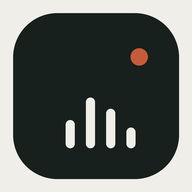
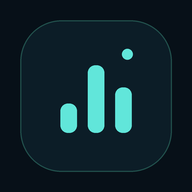
更新学习桌面图标、独立安装入口及安全的内容更新缓存

diff --git a/assets/mobile/install.js b/assets/mobile/install.js
@@ -1,0 +1,22 @@
+(function(){
+'use strict';
+var script=document.currentScript,app=script.getAttribute('data-app')||'hub',sw=script.getAttribute('data-sw');
+var home='/learning-hub/',guide=home+'install/',promptEvent=null,previousFocus=null;
+var host=document.createElement('div');host.id='learning-mobile-tools';document.body.appendChild(host);
+var shadow=host.attachShadow?host.attachShadow({mode:'open'}):host;
+shadow.innerHTML='<style>:host{font:15px/1.65 "PingFang SC","Microsoft YaHei",sans-serif;color:#e8f7fa}*{box-sizing:border-box}button,a{font:inherit}button{cursor:pointer}button:focus-visible,a:focus-visible{outline:3px solid #61e6da;outline-offset:3px}.launcher{position:fixed;right:12px;bottom:calc(82px + env(safe-area-inset-bottom,0px));z-index:5000;min-height:44px;padding:0 14px;border:1px solid #35727b;border-radius:12px;color:#bde9ee;background:#112630;box-shadow:0 4px 15px #0003}.backdrop{position:fixed;inset:0;z-index:10000;background:#000a;display:flex;align-items:center;justify-content:center;padding:18px}.backdrop[hidden]{display:none}.panel{position:relative;background:#101f29;border:1px solid #335560;border-radius:22px;width:100%;max-width:420px;max-height:90vh;overflow:auto;padding:24px;color:#e8f7fa}h2{font-size:24px;margin:0 30px 14px 0}p{font-size:15px;line-height:1.8;color:#b6cdd3;margin:12px 0}.close{position:absolute;right:15px;top:15px;width:36px;height:36px;border:1px solid #335560;border-radius:50%;background:none;color:inherit;font-size:24px}.action{display:block;min-height:48px;width:100%;padding:10px 14px;margin-top:10px;border:1px solid #335560;border-radius:12px;text-align:center;text-decoration:none;background:#182e39;color:#e8f7fa;font-weight:650}.primary{background:#61e6da;color:#071018;border-color:#61e6da}.status{font-size:13px;min-height:22px;color:#91d9ce}.muted{font-size:13px;color:#93aeb8}</style>'+
+'<button class="launcher" type="button">桌面图标</button><div class="backdrop" hidden><section class="panel" role="dialog" aria-modal="true" aria-labelledby="mobile-title"><button class="close" type="button" aria-label="关闭">×</button><h2 id="mobile-title">桌面图标与更新</h2><p class="instructions"></p><button class="action primary install" type="button">添加此应用到桌面</button><button class="action refresh" type="button">检查更新并重新打开</button><a class="action" href="'+guide+'">查看全部学习图标</a><p class="status" role="status" aria-live="polite"></p><p class="muted">这里只更新网页缓存，不清除收藏与学习记录。手机桌面图标由浏览器和系统管理。</p></section></div>';
+var overlay=shadow.querySelector('.backdrop'),close=shadow.querySelector('.close'),install=shadow.querySelector('.install'),status=shadow.querySelector('.status'),launcher=shadow.querySelector('.launcher');
+if(app==='hub'){launcher.hidden=true;launcher.style.display='none'}
+function standalone(){return (window.matchMedia&&matchMedia('(display-mode: standalone)').matches)||navigator.standalone===true}
+function instructions(){var isIOS=/iPad|iPhone|iPod/.test(navigator.userAgent)||(navigator.platform==='MacIntel'&&navigator.maxTouchPoints>1);return isIOS?'在 Safari 中点击“分享”，选择“添加到主屏幕”。每个学习应用需要分别添加。':'请在 Chrome 或手机系统浏览器中打开。点击右上角菜单，选择“安装应用”“添加到主屏幕”或“添加到桌面”（名称因浏览器而异）。'}
+function open(){previousFocus=document.activeElement;shadow.querySelector('.instructions').textContent=standalone()?'当前已从桌面图标打开，可检查内容更新；要添加其他图标，请打开下方“查看全部学习图标”。':instructions();install.textContent=standalone()?'查看其他桌面图标':'添加此应用到桌面';overlay.hidden=false;close.focus()}
+function hide(){overlay.hidden=true;if(previousFocus&&previousFocus.focus)previousFocus.focus()}
+launcher.addEventListener('click',open);document.querySelectorAll('[data-mobile-open]').forEach(function(el){el.addEventListener('click',open)});close.addEventListener('click',hide);overlay.addEventListener('click',function(e){if(e.target===overlay)hide()});
+shadow.addEventListener('keydown',function(e){if(e.key==='Escape'){hide();return}if(e.key==='Tab'&&!overlay.hidden){var items=Array.prototype.slice.call(shadow.querySelector('.panel').querySelectorAll('button,a[href]')).filter(function(el){return !el.disabled});var first=items[0],last=items[items.length-1];if(e.shiftKey&&shadow.activeElement===first){last.focus();e.preventDefault()}else if(!e.shiftKey&&shadow.activeElement===last){first.focus();e.preventDefault()}}});
+window.addEventListener('beforeinstallprompt',function(e){e.preventDefault();promptEvent=e});
+install.addEventListener('click',function(){if(standalone()){location.href=guide;return}if(promptEvent){var p=promptEvent;promptEvent=null;p.prompt();p.userChoice.then(function(result){status.textContent=result.outcome==='accepted'?'已发送安装请求，请查看系统提示。':'已取消，可稍后从浏览器菜单添加。'})}else{status.textContent=instructions()}});
+shadow.querySelector('.refresh').addEventListener('click',function(){var button=this;button.disabled=true;status.textContent='正在联网检查…';var regs=('serviceWorker'in navigator)?navigator.serviceWorker.getRegistrations().then(function(list){return Promise.all(list.filter(function(r){return location.href.indexOf(r.scope)===0}).map(function(r){return r.update().catch(function(){})}))}):Promise.resolve();regs.then(function(){return fetch(location.pathname+'?desktop-update='+Date.now(),{cache:'no-store',credentials:'same-origin'})}).then(function(r){if(!r.ok)throw Error('http');var u=new URL(location.href);u.searchParams.delete('desktop');u.searchParams.set('updated',Date.now());location.replace(u.href)}).catch(function(){status.textContent='更新检查失败，请联网后重试；未清除任何学习记录。';button.disabled=false})});
+if('serviceWorker'in navigator&&sw&&/^https?:$/.test(location.protocol)){navigator.serviceWorker.register(sw,{updateViaCache:'none'}).then(function(r){r.update().catch(function(){})}).catch(function(){})}
+if(new URL(location.href).searchParams.get('desktop')==='1')open();
+})();

diff --git a/install/index.html b/install/index.html
@@ -1,0 +1,3 @@
+<!doctype html><html lang="zh-CN"><head><meta charset="utf-8"><meta name="viewport" content="width=device-width,initial-scale=1,viewport-fit=cover"><meta name="theme-color" content="#071018"><title>添加学习图标到手机桌面</title><style>
+:root{color-scheme:dark;font-family:"PingFang SC","Microsoft YaHei",sans-serif;background:#071018;color:#ecf7f9}*{box-sizing:border-box}body{margin:0}main{max-width:900px;margin:auto;padding:calc(24px + env(safe-area-inset-top)) 20px calc(36px + env(safe-area-inset-bottom))}a{color:inherit;text-decoration:none}a:focus-visible{outline:3px solid #61e6da;outline-offset:4px}.back{display:inline-flex;min-height:44px;align-items:center;color:#88b7c1;font-size:15px}h1{font-size:clamp(29px,5vw,42px);margin:16px 0 10px;letter-spacing:-.04em}p{font-size:16px;line-height:1.85;color:#adcad2}h2{font-size:21px;margin:0 0 12px}ol{padding-left:23px;margin:0}li{margin:9px 0;line-height:1.9;color:#c4dbe1}.guide{padding:22px;background:#10232d;border:1px solid #294650;border-radius:20px;margin:24px 0}.apps{display:grid;grid-template-columns:repeat(3,1fr);gap:14px}.app{display:flex;flex-direction:column;align-items:flex-start;padding:20px;border:1px solid #25424d;border-radius:20px;background:#0d1d26}.app:hover{border-color:#61e6da}.app img{border-radius:20px;width:82px;height:82px}.app strong{font-size:23px;margin-top:16px}.app span{font-size:14px;color:#8eb0bb;margin-top:5px}.app b{font-size:14px;margin-top:22px;color:#61e6da}.app i{font-style:normal}.note{border-top:1px solid #25424d;margin-top:26px;padding-top:20px}.version{font-size:13px;color:#7d9aa5}@media(max-width:650px){.apps{grid-template-columns:1fr 1fr;gap:10px}.app{padding:15px}.app strong{font-size:20px}.app img{width:68px;height:68px}.app span{font-size:12px}.guide{padding:18px}main{padding-left:16px;padding-right:16px}}
+</style></head><body><main><a class="back" href="../">← 返回学习空间</a><h1>把学习图标放到桌面</h1><p>每个入口都能单独打开。请逐个添加，不是一次自动安装全部图标。</p><section class="guide"><h2>安卓手机</h2><ol><li>在 <b>Chrome 或手机系统浏览器</b>打开本页，不要停留在微信内置浏览器。</li><li>选择下面一个学习应用，进入后点“添加此应用到桌面”。</li><li>如果未出现系统安装提示，点浏览器菜单 <b>⋮ → 安装应用 / 添加到主屏幕 / 添加到桌面</b>。</li><li>返回本页，重复添加其他学习图标。</li></ol></section><div class="apps"><a class="app" href="https://ziyuan2046-cyber.github.io/learning-hub/?desktop=1"><img src="../assets/app-icons/v20261105/hub-192.png" width="82" height="82" alt="" loading="lazy"><strong>学习空间</strong><span>总入口</span><b>打开并添加 <i aria-hidden="true">↗</i></b></a><a class="app" href="https://ziyuan2046-cyber.github.io/learning-hub/chinese/index.html?desktop=1"><img src="../assets/app-icons/v20261105/hanzi-192.png" width="82" height="82" alt="" loading="lazy"><strong>汉字笔顺</strong><span>识字与笔顺</span><b>打开并添加 <i aria-hidden="true">↗</i></b></a><a class="app" href="https://ziyuan2046-cyber.github.io/learning-hub/chinese/guoxue/index.html?desktop=1"><img src="../assets/app-icons/v20261105/guoxue-192.png" width="82" height="82" alt="" loading="lazy"><strong>课本国学</strong><span>古诗文与经典</span><b>打开并添加 <i aria-hidden="true">↗</i></b></a><a class="app" href="https://ziyuan2046-cyber.github.io/learning-hub/math/index.html?desktop=1"><img src="../assets/app-icons/v20261105/math-192.png" width="82" height="82" alt="" loading="lazy"><strong>小学数学</strong><span>数学学习</span><b>打开并添加 <i aria-hidden="true">↗</i></b></a><a class="app" href="https://ziyuan2046-cyber.github.io/learning-hub/xiaoyuan/?desktop=1"><img src="../assets/app-icons/v20261105/forest-192.png" width="82" height="82" alt="" loading="lazy"><strong>森林英语</strong><span>字母与故事</span><b>打开并添加 <i aria-hidden="true">↗</i></b></a><a class="app" href="https://ziyuan2046-cyber.github.io/english-grade1/index.html?desktop=1"><img src="../assets/app-icons/v20261105/english-192.png" width="82" height="82" alt="" loading="lazy"><strong>课本英语</strong><span>一年级上册</span><b>打开并添加 <i aria-hidden="true">↗</i></b></a></div><section class="guide"><h2>已有的旧图标怎么更新？</h2><p>先打开原来的学习图标，点“桌面图标”→“检查更新并重新打开”，联网加载最新内容。收藏与学习记录会保留。</p><p>如果桌面仍显示旧图案，系统可能没有更新快捷方式图标。可先从浏览器添加新图标，确认能用后再移除旧的快捷方式。<b>不要清除浏览器数据、网站存储或学习记录。</b>如果系统“卸载”界面提示同时删除数据，请取消。</p></section><section class="note"><h2>iPhone / iPad</h2><p>在 Safari 中分别打开每个学习应用，点“分享”→“添加到主屏幕”。</p><p>浏览器菜单与系统安装能力因手机而异。网页不能替你直接操作手机桌面，也不能批量静默安装。相同手机最好始终使用同一个浏览器，学习记录通常保存在该浏览器中。</p><p class="version">图标版本：2026-11-05 · 学习内容使用各应用当前线上版本</p></section></main></body></html>

diff --git a/index.html b/index.html
@@ -7,7 +7,7 @@
 <meta name="color-scheme" content="dark">
 <meta name="description" content="学习空间：汉字、国学、英语与数学学习入口。">
 <title>学习空间</title>
-<link rel="manifest" href="./manifest.webmanifest">
+
 <style>
 :root{
   --bg:#071018;--panel:#0d1b24;--panel-2:#10242d;--line:rgba(121,208,222,.16);--line-strong:rgba(121,226,237,.34);
@@ -156,7 +156,13 @@ a:focus-visible,button:focus-visible{outline:2px solid var(--cyan);outline-offse
 }
 
 @media(min-width:621px) and (orientation:portrait){.layout{grid-template-columns:1fr;gap:24px}.heading h1{font-size:clamp(46px,7vw,62px);white-space:nowrap}}
+.top{gap:8px}.brand{margin-right:auto}.qr-trigger{white-space:nowrap} @media(max-width:420px){.qr-trigger{font-size:12px;padding:0 9px}.brand-name{font-size:15px}.top{gap:6px}}
 </style>
+
+<link rel="manifest" href="./manifest.webmanifest">
+<link rel="icon" type="image/png" href="/learning-hub/assets/app-icons/v20261105/hub-192.png">
+<link rel="apple-touch-icon" href="/learning-hub/assets/app-icons/v20261105/hub-180.png">
+<meta name="apple-mobile-web-app-title" content="学习空间">
 </head>
 <body>
 <a class="skip" href="#main">跳到主要内容</a>
@@ -166,6 +172,7 @@ a:focus-visible,button:focus-visible{outline:2px solid var(--cyan);outline-offse
       <span class="logo" aria-hidden="true"><i></i><i></i><i></i></span>
       <span class="brand-name">学习空间</span>
     </a>
+    <button class="qr-trigger" type="button" data-mobile-open>桌面图标</button>
     <button class="qr-trigger" id="qrButton" type="button" aria-haspopup="dialog" aria-controls="qrDialog">
       <svg viewBox="0 0 24 24" aria-hidden="true"><rect x="3.5" y="3.5" width="6" height="6" rx="1"/><rect x="14.5" y="3.5" width="6" height="6" rx="1"/><rect x="3.5" y="14.5" width="6" height="6" rx="1"/><path d="M14.5 14.5h2.5v2.5h-2.5zM19 14.5h1.5M14.5 20h1.5M19 19h1.5v1.5"/></svg>
       <span>二维码</span>
@@ -229,7 +236,7 @@ a:focus-visible,button:focus-visible{outline:2px solid var(--cyan);outline-offse
   var img=document.getElementById('qrImage'),loading=document.getElementById('qrLoading'),copy=document.getElementById('copyButton'),toast=document.getElementById('toast');
   var address='https://ziyuan2046-cyber.github.io/learning-hub/';
   if(/github\.io$/.test(location.hostname)){address=location.origin+'/learning-hub/';document.getElementById('qrAddress').textContent=address}
-  function openDialog(){if(!dialog)return;img.hidden=true;loading.style.display='block';if(!img.src&&img.dataset.src){img.src=img.dataset.src}if(typeof dialog.showModal==='function'){dialog.showModal()}else{dialog.setAttribute('open','')}closeBtn.focus()}
+  function openDialog(){if(!dialog)return;img.hidden=!(img.complete&&img.naturalWidth);loading.style.display=img.hidden?'block':'none';if(!img.getAttribute('src')&&img.dataset.src){img.src=img.dataset.src}if(typeof dialog.showModal==='function'){dialog.showModal()}else{dialog.setAttribute('open','')}closeBtn.focus()}
   function closeDialog(){if(!dialog)return;if(typeof dialog.close==='function'){dialog.close()}else{dialog.removeAttribute('open')}openBtn.focus()}
   img.addEventListener('load',function(){loading.style.display='none';img.hidden=false});
   img.addEventListener('error',function(){loading.textContent='二维码加载失败，请复制地址访问'});
@@ -245,5 +252,6 @@ a:focus-visible,button:focus-visible{outline:2px solid var(--cyan);outline-offse
   if('serviceWorker' in navigator&&/^https?:$/.test(location.protocol)){addEventListener('load',function(){navigator.serviceWorker.register('./sw.js').catch(function(){})})}
 })();
 </script>
+<script defer src="/learning-hub/assets/mobile/install.js?v=20261105" data-app="hub" data-sw="/learning-hub/sw.js"></script>
 </body>
 </html>

diff --git a/xiaoyuan/sw.js b/xiaoyuan/sw.js
@@ -1,52 +1,17 @@
-const CACHE_NAME = 'xiaoyuan-course-hub-v13';
-const CORE_ASSETS = [
-  "./",
-  "./index.html",
-  "./courses.js",
-  "./styles.css",
-  "./app.js",
-  "./manifest.webmanifest",
-  "./assets/img/icon-192.png",
-  "./assets/img/icon-512.png",
-  "./assets/img/apple-touch-icon.png",
-];
-
-self.addEventListener('install', (event) => {
-  event.waitUntil(caches.open(CACHE_NAME).then((cache) => cache.addAll(CORE_ASSETS)).then(() => self.skipWaiting()));
-});
-
-self.addEventListener('activate', (event) => {
-  event.waitUntil(caches.keys().then((keys) => Promise.all(keys.filter((key) => key !== CACHE_NAME).map((key) => caches.delete(key)))).then(() => self.clients.claim()));
-});
-
-self.addEventListener('fetch', (event) => {
-  if (event.request.method !== 'GET') { return; }
-
-  const requestUrl = new URL(event.request.url);
-  if (requestUrl.origin !== self.location.origin) { return; }
-
-  // Keep audio outside the service worker so the browser can issue its own
-  // Range request immediately instead of competing with precache downloads.
-  if (event.request.destination === 'audio' || /\.(?:mp3|m4a|aac|ogg|wav)$/i.test(requestUrl.pathname)) {
-    return;
-  }
-
-  if (event.request.mode === 'navigate') {
-    event.respondWith(fetch(event.request).then((response) => {
-      if (response.ok) { caches.open(CACHE_NAME).then((cache) => cache.put('./index.html', response.clone())); }
-      return response;
-    }).catch(() => caches.match('./index.html')));
-    return;
-  }
-
-  event.respondWith(caches.match(event.request).then((cached) => {
-    if (cached) { return cached; }
-    return fetch(event.request).then((response) => {
-      if (response.status === 200) {
-        const copy = response.clone();
-        caches.open(CACHE_NAME).then((cache) => cache.put(event.request, copy));
-      }
-      return response;
-    }).catch(() => Response.error());
-  }));
+'use strict';
+const CACHE="forest-mobile-20261105", OWN=["xiaoyuan-"], SHELL=["./", "./index.html", "./manifest.webmanifest", "./courses.js?v=13", "./styles.css?v=13", "./app.js?v=13"];
+self.addEventListener('install',event=>event.waitUntil(caches.open(CACHE).then(cache=>cache.addAll(SHELL)).then(()=>self.skipWaiting())));
+self.addEventListener('activate',event=>event.waitUntil(caches.keys().then(keys=>Promise.all(keys.filter(k=>k!==CACHE&&OWN.some(prefix=>k.startsWith(prefix))).map(k=>caches.delete(k)))).then(()=>self.clients.claim())));
+self.addEventListener('fetch',event=>{
+ const req=event.request,u=new URL(req.url);
+ if(req.method!=='GET'||u.origin!==self.location.origin||req.headers.has('range')||/\.(?:mp3|mp4|m4a|ogg|wav|aac)$/i.test(u.pathname))return;
+ const base=new URL(self.registration.scope),key=req.mode==='navigate'?u.origin+u.pathname:req;
+ // Child applications keep their own caches; do not intercept another app's scope.
+ 
+ event.respondWith(fetch(req,{cache:'no-cache'}).then(res=>{
+   if(res.ok&&res.type!=='opaque'){
+     const copy=res.clone();event.waitUntil(caches.open(CACHE).then(cache=>cache.put(key,copy)));
+   }
+   return res;
+ }).catch(()=>caches.open(CACHE).then(cache=>cache.match(key).then(hit=>hit||(req.mode==='navigate'?cache.match(new URL('./index.html',base).href):null))).then(hit=>hit||new Response('当前离线，首次访问此内容需联网。',{status:503,headers:{'Content-Type':'text/plain; charset=utf-8'}}))));
 });

diff --git a/chinese/guoxue/sw.js b/chinese/guoxue/sw.js
@@ -1,32 +1,17 @@
-const CACHE = 'guoxue-20261027-v18-learning-focus';
-const ASSETS = [
-  './', './index.html', './manifest.webmanifest',
-  './assets/icon-192.png', './assets/icon-512.png'
-];
-self.addEventListener('install', (e) => {
-  e.waitUntil(caches.open(CACHE).then((c) => c.addAll(ASSETS)).then(() => self.skipWaiting()));
-});
-self.addEventListener('activate', (e) => {
-  e.waitUntil(caches.keys().then((keys) => Promise.all(keys.filter((k) => k !== CACHE).map((k) => caches.delete(k)))).then(() => self.clients.claim()));
-});
-self.addEventListener('fetch', (e) => {
-  if (e.request.method !== 'GET') return;
-  const isAudio = new URL(e.request.url).pathname.endsWith('.mp3');
-  if (isAudio) {
-    e.respondWith(caches.match(e.request).then((hit) => hit || fetch(e.request).then((res) => {
-      if (res.ok) {
-        const copy = res.clone();
-        caches.open(CACHE).then((c) => c.put(e.request, copy));
-      }
-      return res;
-    }).catch(() => new Response('', { status: 404, headers: { 'Content-Type': 'audio/mpeg' } }))));
-    return;
-  }
-  e.respondWith(caches.match(e.request).then((hit) => hit || fetch(e.request).then((res) => {
-    if (res.ok && new URL(e.request.url).origin === location.origin) {
-      const copy = res.clone();
-      caches.open(CACHE).then((c) => c.put(e.request, copy));
-    }
-    return res;
-  }).catch(() => caches.match('./index.html'))));
+'use strict';
+const CACHE="guoxue-mobile-20261105", OWN=["guoxue-"], SHELL=["./", "./index.html", "./manifest.webmanifest"];
+self.addEventListener('install',event=>event.waitUntil(caches.open(CACHE).then(cache=>cache.addAll(SHELL)).then(()=>self.skipWaiting())));
+self.addEventListener('activate',event=>event.waitUntil(caches.keys().then(keys=>Promise.all(keys.filter(k=>k!==CACHE&&OWN.some(prefix=>k.startsWith(prefix))).map(k=>caches.delete(k)))).then(()=>self.clients.claim())));
+self.addEventListener('fetch',event=>{
+ const req=event.request,u=new URL(req.url);
+ if(req.method!=='GET'||u.origin!==self.location.origin||req.headers.has('range')||/\.(?:mp3|mp4|m4a|ogg|wav|aac)$/i.test(u.pathname))return;
+ const base=new URL(self.registration.scope),key=req.mode==='navigate'?u.origin+u.pathname:req;
+ // Child applications keep their own caches; do not intercept another app's scope.
+ 
+ event.respondWith(fetch(req,{cache:'no-cache'}).then(res=>{
+   if(res.ok&&res.type!=='opaque'){
+     const copy=res.clone();event.waitUntil(caches.open(CACHE).then(cache=>cache.put(key,copy)));
+   }
+   return res;
+ }).catch(()=>caches.open(CACHE).then(cache=>cache.match(key).then(hit=>hit||(req.mode==='navigate'?cache.match(new URL('./index.html',base).href):null))).then(hit=>hit||new Response('当前离线，首次访问此内容需联网。',{status:503,headers:{'Content-Type':'text/plain; charset=utf-8'}}))));
 });

diff --git a/sw.js b/sw.js
@@ -1,13 +1,17 @@
 'use strict';
-var CACHE='learning-hub-tech-v2';
-var SHELL=['./','./index.html','./manifest.webmanifest'];
-self.addEventListener('install',function(e){e.waitUntil(caches.open(CACHE).then(function(c){return c.addAll(SHELL)}).then(function(){return self.skipWaiting()}))});
-self.addEventListener('activate',function(e){e.waitUntil(caches.keys().then(function(keys){return Promise.all(keys.filter(function(k){return k!==CACHE}).map(function(k){return caches.delete(k)}))}).then(function(){return self.clients.claim()}))});
-self.addEventListener('fetch',function(e){
-  var req=e.request;if(req.method!=='GET'||new URL(req.url).origin!==location.origin)return;
-  var path=new URL(req.url).pathname;
-  if(path==='/'||path.endsWith('/index.html')||path.endsWith('/manifest.webmanifest')){
-    e.respondWith(fetch(req).then(function(r){if(r&&r.ok){var copy=r.clone();caches.open(CACHE).then(function(c){c.put(req,copy)})}return r}).catch(function(){return caches.match(req)}));return
-  }
-  e.respondWith(caches.match(req).then(function(hit){return hit||fetch(req)}));
+const CACHE="learning-hub-mobile-20261105", OWN=["learning-hub-shell-", "learning-hub-tech-", "learning-hub-mobile-"], SHELL=["./", "./index.html", "./manifest.webmanifest"];
+self.addEventListener('install',event=>event.waitUntil(caches.open(CACHE).then(cache=>cache.addAll(SHELL)).then(()=>self.skipWaiting())));
+self.addEventListener('activate',event=>event.waitUntil(caches.keys().then(keys=>Promise.all(keys.filter(k=>k!==CACHE&&OWN.some(prefix=>k.startsWith(prefix))).map(k=>caches.delete(k)))).then(()=>self.clients.claim())));
+self.addEventListener('fetch',event=>{
+ const req=event.request,u=new URL(req.url);
+ if(req.method!=='GET'||u.origin!==self.location.origin||req.headers.has('range')||/\.(?:mp3|mp4|m4a|ogg|wav|aac)$/i.test(u.pathname))return;
+ const base=new URL(self.registration.scope),key=req.mode==='navigate'?u.origin+u.pathname:req;
+ // Child applications keep their own caches; do not intercept another app's scope.
+ if(u.pathname.startsWith(base.pathname+'chinese/guoxue/')||u.pathname.startsWith(base.pathname+'xiaoyuan/'))return;
+ event.respondWith(fetch(req,{cache:'no-cache'}).then(res=>{
+   if(res.ok&&res.type!=='opaque'){
+     const copy=res.clone();event.waitUntil(caches.open(CACHE).then(cache=>cache.put(key,copy)));
+   }
+   return res;
+ }).catch(()=>caches.open(CACHE).then(cache=>cache.match(key).then(hit=>hit||(req.mode==='navigate'?cache.match(new URL('./index.html',base).href):null))).then(hit=>hit||new Response('当前离线，首次访问此内容需联网。',{status:503,headers:{'Content-Type':'text/plain; charset=utf-8'}}))));
 });

diff --git a/chinese/guoxue/index.html b/chinese/guoxue/index.html
@@ -8,9 +8,9 @@
   <title>小学语文国学 · 课本与拓展</title>
   <meta name="apple-mobile-web-app-capable" content="yes">
   <meta name="apple-mobile-web-app-status-bar-style" content="default">
-  <link rel="manifest" href="manifest.webmanifest">
-  <link rel="icon" type="image/png" sizes="192x192" href="assets/icon-192.png">
-  <link rel="apple-touch-icon" href="assets/icon-192.png">
+  
+  
+  
   <style>:root {
   --paper: #f3f0e8;
   --surface: #fffdf8;
@@ -284,6 +284,11 @@ h1, h2, h3 { font-family: var(--serif); font-weight: 700; }
   *, *::before, *::after { scroll-behavior: auto !important; animation-duration: .01ms !important; transition-duration: .01ms !important; }
 }
 </style>
+
+<link rel="manifest" href="./manifest.webmanifest">
+<link rel="icon" type="image/png" href="/learning-hub/assets/app-icons/v20261105/guoxue-192.png">
+<link rel="apple-touch-icon" href="/learning-hub/assets/app-icons/v20261105/guoxue-180.png">
+<meta name="apple-mobile-web-app-title" content="课本国学">
 </head>
 <body>
   <div id="app"><div class="loading-screen"><span class="loading-mark">学</span><span>正在打开书房…</span></div></div>
@@ -7563,5 +7568,6 @@ m\xE8ng zi yu\u0113 :" sh\xEC y\u0101n d\xE9 w\xE8i d\xE0 zh\xE0ng f\u016B h\u01
   route();
 })();
 </script>
+<script defer src="/learning-hub/assets/mobile/install.js?v=20261105" data-app="guoxue" data-sw="/learning-hub/chinese/guoxue/sw.js"></script>
 </body>
 </html>

diff --git a/xiaoyuan/index.html b/xiaoyuan/index.html
@@ -9,12 +9,17 @@
   <meta name="description" content="森林英语课程学习空间：按课程目录和学习步骤，逐步学习字母、单词、句子、歌谣与故事。">
   <meta name="apple-mobile-web-app-capable" content="yes">
   <meta name="apple-mobile-web-app-status-bar-style" content="default">
-  <meta name="apple-mobile-web-app-title" content="森林英语">
+  
   <title>森林英语 · 课程学习空间</title>
-  <link rel="manifest" href="./manifest.webmanifest">
-  <link rel="icon" href="./assets/img/icon-192.png">
-  <link rel="apple-touch-icon" href="./assets/img/apple-touch-icon.png">
+  
+  
+  
   <link rel="stylesheet" href="./styles.css?v=13">
+
+<link rel="manifest" href="./manifest.webmanifest">
+<link rel="icon" type="image/png" href="/learning-hub/assets/app-icons/v20261105/forest-192.png">
+<link rel="apple-touch-icon" href="/learning-hub/assets/app-icons/v20261105/forest-180.png">
+<meta name="apple-mobile-web-app-title" content="森林英语">
 </head>
 <body>
   <a class="skip-link" href="#mainContent">跳到主要内容</a>
@@ -127,5 +132,6 @@
   <audio id="audio" preload="none"></audio>
   <script src="./courses.js?v=13"></script>
   <script src="./app.js?v=13"></script>
+<script defer src="/learning-hub/assets/mobile/install.js?v=20261105" data-app="forest" data-sw="/learning-hub/xiaoyuan/sw.js"></script>
 </body>
 </html>

diff --git a/chinese/index.html b/chinese/index.html
@@ -789,6 +789,11 @@
 <meta name="description" content="按统编版教材学习汉字，查看田字格笔顺、逐笔分解与偏旁名称，支持触屏描红。">
 <link rel="stylesheet" href="assets/css/hanzi-fonts.css?v=20261105-fix1">
 <link rel="stylesheet" href="assets/css/study-desk.css?v=20261105-poly1">
+
+<link rel="manifest" href="./manifest.webmanifest">
+<link rel="icon" type="image/png" href="/learning-hub/assets/app-icons/v20261105/hanzi-192.png">
+<link rel="apple-touch-icon" href="/learning-hub/assets/app-icons/v20261105/hanzi-180.png">
+<meta name="apple-mobile-web-app-title" content="汉字笔顺">
 </head>
 <body>
 <a class="sr-only skip-link" href="#mainTabs">跳到学习内容</a>
@@ -1258,5 +1263,6 @@ window.__HANZI_BUILD__ = '2026-11-05-polyphones-1';
 <script src="assets/data/polyphones.js?v=20261105-poly1"></script>
 <script src="assets/js/app.js?v=20261105-poly1"></script>
 <script src="assets/js/study-desk.js?v=20261105-fix1"></script>
+<script defer src="/learning-hub/assets/mobile/install.js?v=20261105" data-app="hanzi" data-sw="/learning-hub/sw.js"></script>
 </body>
 </html>

diff --git a/math/index.html b/math/index.html
@@ -9,6 +9,11 @@
   <link rel="stylesheet" href="./assets/style.css">
   <link rel="stylesheet" href="./assets/fresh.css">
   <link rel="stylesheet" href="./assets/lab.css">
+
+<link rel="manifest" href="./manifest.webmanifest">
+<link rel="icon" type="image/png" href="/learning-hub/assets/app-icons/v20261105/math-192.png">
+<link rel="apple-touch-icon" href="/learning-hub/assets/app-icons/v20261105/math-180.png">
+<meta name="apple-mobile-web-app-title" content="小学数学">
 </head>
 <body>
   <a class="skip" href="#main">跳到主要内容</a>
@@ -88,5 +93,6 @@
   <script src="./assets/data/g6.js"></script>
   <script src="./assets/lab.js"></script>
   <script src="./assets/app.js"></script>
+<script defer src="/learning-hub/assets/mobile/install.js?v=20261105" data-app="math" data-sw="/learning-hub/sw.js"></script>
 </body>
 </html>
